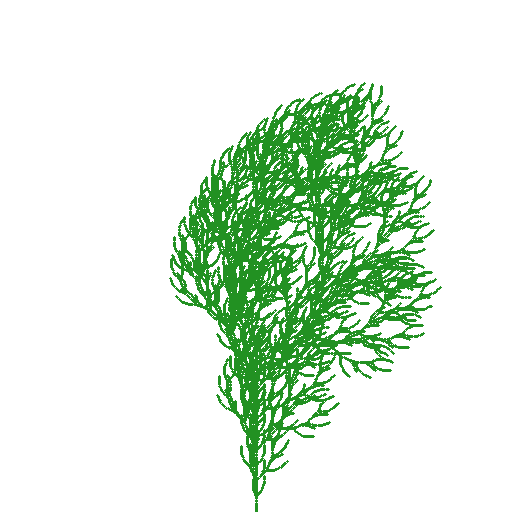
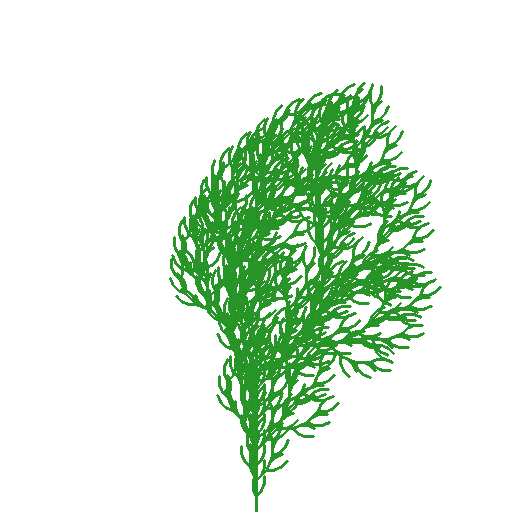
feat(plant-gen): added color variation and made lines more connected

diff --git a/Assets/Scripts/Plants/PlantGenerator.cs b/Assets/Scripts/Plants/PlantGenerator.cs
@@ -6,6 +6,7 @@ using System.Linq;
 using AYellowpaper.SerializedCollections;
 using NaughtyAttributes;
 using UnityEngine;
+using Random = UnityEngine.Random;
 
 namespace Plants
 {
@@ -121,15 +122,15 @@ namespace Plants
             if (drawnPixels.Contains(texturePosition))
                 return false;
             
-            // TODO: Add color variation?
-            plantTexture.SetPixel(texturePosition.x, texturePosition.y, color);
+            // Add color variation?
+            plantTexture.SetPixel(texturePosition.x, texturePosition.y, color * Random.Range(0.9f, 1.1f));
             drawnPixels.Add(texturePosition);
             
             // Draw the pixels around
-            DrawNeighbouringPixel(texturePosition + Vector2Int.up, plantTexture, plant, color);
-            DrawNeighbouringPixel(texturePosition + Vector2Int.down, plantTexture, plant, color);
-            DrawNeighbouringPixel(texturePosition + Vector2Int.left, plantTexture, plant, color);
-            DrawNeighbouringPixel(texturePosition + Vector2Int.right, plantTexture, plant, color);
+            DrawNeighbouringPixel(texturePosition + Vector2Int.up, plantTexture, plant, color * Random.Range(0.9f, 1.1f));
+            DrawNeighbouringPixel(texturePosition + Vector2Int.down, plantTexture, plant, color * Random.Range(0.9f, 1.1f));
+            DrawNeighbouringPixel(texturePosition + Vector2Int.left, plantTexture, plant, color * Random.Range(0.9f, 1.1f));
+            DrawNeighbouringPixel(texturePosition + Vector2Int.right, plantTexture, plant, color * Random.Range(0.9f, 1.1f));
 
             return true;
         }
@@ -154,26 +155,6 @@ namespace Plants
                 
                 // Try to draw the pixel
                 if (!DrawPixel(middle, plant, plantTexture, drawnPixels, plant.plantColor))
-                    continue;
-
-                // Check the 3x3 surrounding pixels, and stop if at least 1 is drawn
-                bool stopDrawing = false;
-                for (int y = -1; y <= 1; ++y)
-                {
-                    for (int x = -1; x <= 1; ++x)
-                    {
-                        // Skip the current pixel
-                        if (x == 0 && y == 0)
-                            continue;
-                    
-                        // Stop the search if at least one surrounding pixel has already been drawn
-                        Vector2Int surroundingPixel = new Vector2Int(texturePosition.x + x, texturePosition.y + y);
-                        if (drawnPixels.Contains(surroundingPixel))
-                            stopDrawing = true;
-                    }
-                }
-
-                if (stopDrawing)
                     continue;
                 
                 // Process the 2 halves of the current line
@@ -229,8 +210,6 @@ namespace Plants
         {
             // Create the full sequence
             string sequence = ExpandRule(plant);
-            // Debug.Log($"[PlantGenerator] Sequence for {plant.plantName}: {sequence}");
-            
             DrawPlant(sequence, plant, plantTexture);
         }
 
